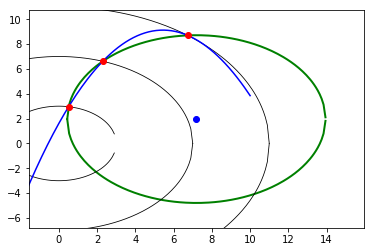
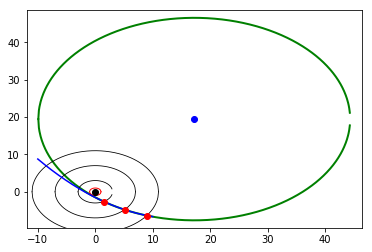
Add files via upload

diff --git a/demo/plottingpoints.md b/demo/plottingpoints.md
@@ -72,7 +72,8 @@ def plot_circle(r, cx, cy, color, lw=2):
     ys = [2*cy - y for y in ys]
     plt.plot(xs, ys, color=color, linewidth=lw)
 
-def plot(points, cen, r, a, b, c, radii):
+        
+def plot(points, cen, r, a, b, c, radii, tolerance):
     if (r != "N/A"):
         plt.xlim(cen[0] - r-2, cen[0] + r + 2) #circle plus padding
         plt.ylim(cen[1] - r-2, cen[1] + r + 2) #circle plus padding
@@ -86,6 +87,9 @@ def plot(points, cen, r, a, b, c, radii):
     #plot 'detector' rings
     for r in radii:
         plot_circle(r, 0, 0, "black", lw=0.8)
+    
+    #plot tolerance
+    plot_circle(tolerance, 0, 0, "red", lw= 1)
         
     #plot the quadratic    
     plot_quadratic(a, b, c)
@@ -94,6 +98,8 @@ def plot(points, cen, r, a, b, c, radii):
     plt.plot([x for x, y in points],
              [y for x, y in points], 'ro', color="red")
     
+    #plot origin
+    plt.plot([0],[0], 'ro', color="black")
     plt.show()
     return
 
@@ -114,6 +120,23 @@ def quadratic(points):
         coeff_1   = x0*x1*y2/((-x0 + x2)*(-x1 + x2)) + x0*x2*y1/((-x0 + x1)*(x1 - x2)) + x1*x2*y0/((x0 - x1)*(x0 - x2))
         return x_2_coeff, x_coeff, coeff_1
 
+def quad_near_origin(coeffs, tolerance):
+        t = tolerance
+        x = -t
+        a, b, c = coeffs[0], coeffs[1], coeffs[2]
+        while x <= t:
+            y = a*x**2 + b*x + c
+            if sqrt(x**2+y**2) <= t: return True
+            x += 0.025
+        return False
+    
+def circle_near_origin(radius, centre, tolerance):
+        a = centre[0]
+        b = centre[1]
+
+        dist = sqrt(a**2 + b**2)
+        return (abs(dist - radius) <= tolerance)
+        
 def plot_quadratic(a,b,c):
     xs = []; ys = []
     x = -10
@@ -127,8 +150,9 @@ def plot_quadratic(a,b,c):
 if __name__ == "__main__":
     print("="*40)
     radii = (3, 7, 11)
+    tolerance = 1
     acc = 2 #accuracy of output
-    for i in range(3): #how many to show (in series)
+    for i in range(5): #how many to show (in series)
         points = gen_circle_points(radii,1)[0]
         rounded_points = [(round(point[0], acc), round(point[1],acc)) for point in points]
         print("Points: "+str(rounded_points))
@@ -137,41 +161,77 @@ if __name__ == "__main__":
         print("Radius: "+str(round(r,acc)))
         a, b, c = quadratic(points)
         print("Quadratic: {}x^2+{}x+{}".format(round(a,acc),round(b,acc),round(c,acc)))
-        plot(points, cen, r, a, b, c, radii)
-        print("="*40)
+        print("Quadratic through origin: "+str(quad_near_origin([a,b,c],tolerance)))
+        print("Circle through origin: "+str(circle_near_origin(r,cen,tolerance)))
+        print("Tolerance: {}".format(tolerance))
+        plot(points, cen, r, a, b, c, radii, tolerance)
+print("="*40)
 ```
 
     ========================================
-    Points: [(0.51, 2.96), (2.3, 6.61), (6.74, 8.7)]
-    Center: (7.19,1.96)
-    Radius: 6.75
-    Quadratic: -0.25x^2+2.76x+1.61
+    Points: [(1.47, -2.62), (5.1, -4.8), (8.97, -6.37)]
+    Center: (17.22,19.47)
+    Radius: 27.13
+    Quadratic: 0.03x^2+-0.77x+-1.54
+    Quadratic through origin: False
+    Circle through origin: False
+    Tolerance: 1
 
 
 
 ![png](output_0_1.png)
 
 
-    ========================================
-    Points: [(1.53, -2.58), (6.95, -0.83), (4.67, 9.96)]
-    Center: (2.45,3.85)
-    Radius: 6.5
-    Quadratic: -1.61x^2+14.0x+-20.27
+    Points: [(1.87, -2.35), (3.84, 5.85), (9.22, 6.0)]
+    Center: (6.67,0.83)
+    Radius: 5.76
+    Quadratic: -0.56x^2+7.35x+-14.11
+    Quadratic through origin: False
+    Circle through origin: True
+    Tolerance: 1
 
 
 
 ![png](output_0_3.png)
 
 
-    ========================================
-    Points: [(2.04, -2.2), (4.14, -5.64), (10.68, -2.64)]
-    Center: (6.38,-1.91)
-    Radius: 4.36
-    Quadratic: 0.24x^2+-3.14x+3.19
+    Points: [(2.18, 2.06), (0.62, 6.97), (0.51, -10.99)]
+    Center: (-18.77,-1.89)
+    Radius: 21.32
+    Quadratic: -95.95x^2+265.25x+-120.49
+    Quadratic through origin: True
+    Circle through origin: False
+    Tolerance: 1
 
 
 
 ![png](output_0_5.png)
+
+
+    Points: [(0.43, -2.97), (6.02, 3.57), (8.94, -6.41)]
+    Center: (5.81,-1.91)
+    Radius: 5.49
+    Quadratic: -0.54x^2+4.65x+-4.86
+    Quadratic through origin: False
+    Circle through origin: True
+    Tolerance: 1
+
+
+
+![png](output_0_7.png)
+
+
+    Points: [(1.79, 2.41), (4.99, -4.91), (9.16, -6.1)]
+    Center: (8.99,1.21)
+    Radius: 7.31
+    Quadratic: 0.27x^2+-4.12x+8.9
+    Quadratic through origin: False
+    Circle through origin: False
+    Tolerance: 1
+
+
+
+![png](output_0_9.png)
 
 
     ========================================
